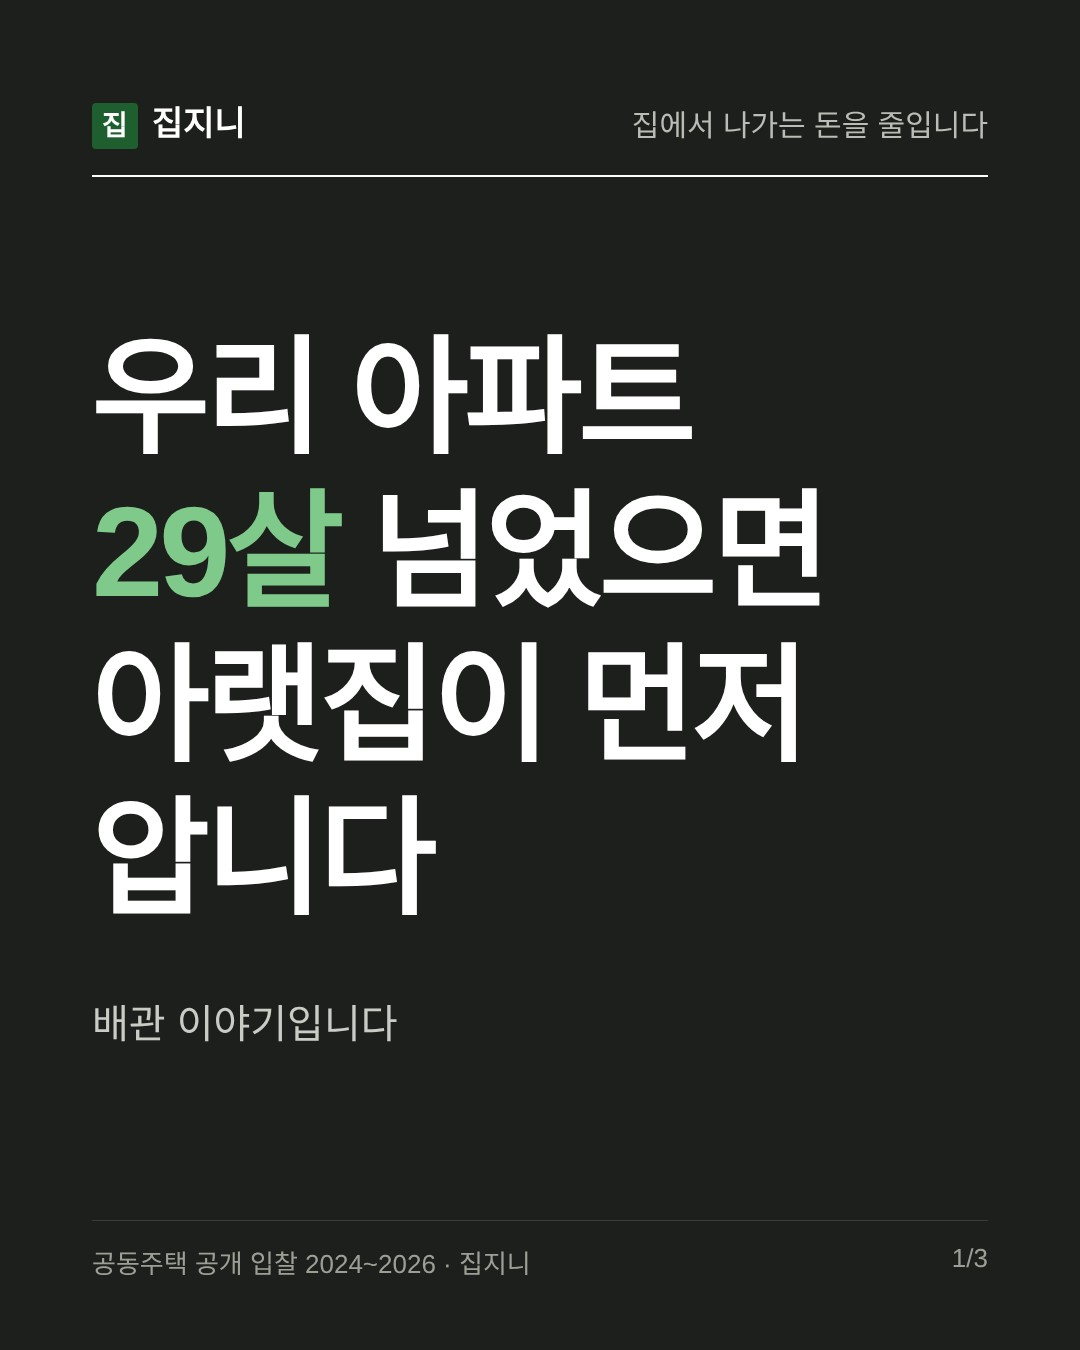
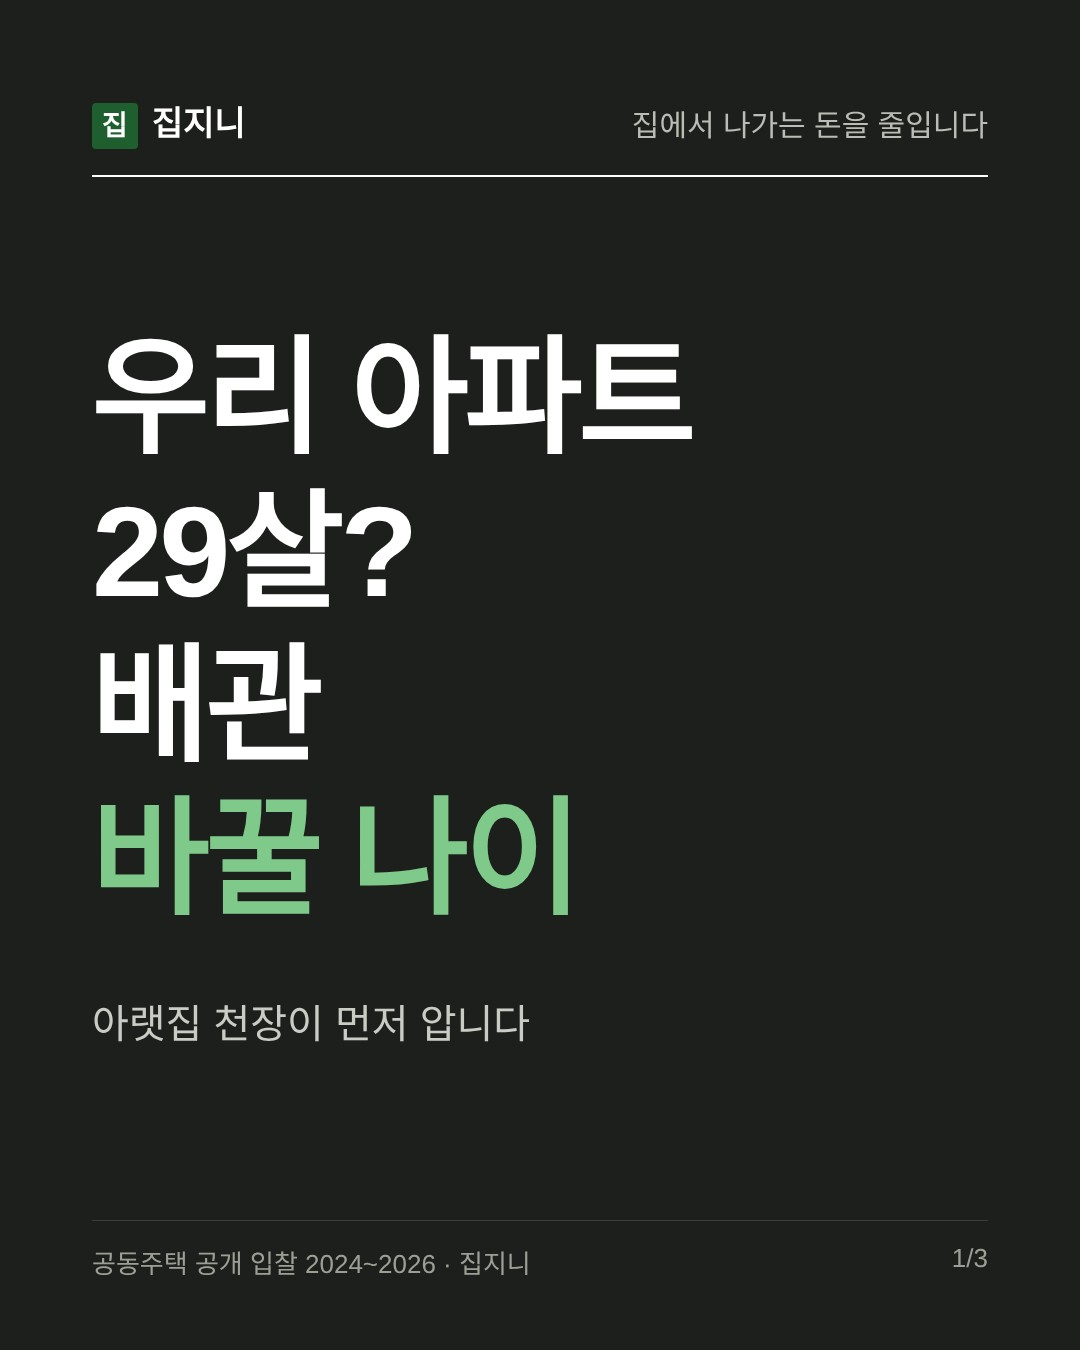
마케팅: 첫 주 갈고리 더 세게(마티즈 긔긔·헐 미친·난리자베스), 감탄·병맛 말투 허용
Claude-Session: https://claude.ai/code/session_01EWAutn6yu8RhtVwgyvFZah

Changed region(s): [[0.0917, 0.3422, 0.7639, 0.6844], [0.0917, 0.7467, 0.4889, 0.7778]]

diff --git a/tools/mk/check.py b/tools/mk/check.py
@@ -3,7 +3,7 @@
 규칙: 숫자는 mk/facts.json 에 있는 것만 · 공사비 글은 「부가세 10% 별도」 · 이모지·과장 금지어 없음 · 길이 · 카드 3~7장(첫 장 hook, 끝 장 cta) · 링크는 jipjini.com · 사진 파일 있음"""
 import json, re, sys, os, pathlib
 ROOT = pathlib.Path(__file__).resolve().parents[2]
-BAN = ["최고", "최저가 보장", "보장합니다", "무조건", "100%", "업계 1위", "완벽", "혁신", "역대급", "충격", "실화", "대박"]
+BAN = ["보장합니다", "최저가 보장", "무조건 싸", "100%", "업계 1위"]   # 2026-11-28 대표 「헐 미친 대박 등 … 더욱더 쌔고 자극적으로」 — 감탄·병맛은 허용, 사실을 장담하는 말만 막음
 EMOJI = re.compile("[\U0001F300-\U0001FAFF\u2600-\u27BF\u2B50\u2B55]")
 OK_N = {"1", "2", "3", "10", "30", "2026", "2027"}
 

diff --git a/.claude/agents/jj-strategist.md b/.claude/agents/jj-strategist.md
@@ -27,3 +27,7 @@ tools: Read, Grep, Glob
 - 첫 장 갈고리는 12자 안팎, 한 줄이나 두 줄. 설명 없이 한 방: 「1,189만 원, 그냥 버리셨네요」 「탑층이면 천장 보세요. 지금.」 「장충금, 어디 썼는지 아세요?」
 - 「당신」에게 말하고, 잃는 돈·놓치는 돈을 앞에(손해 회피). 질문은 짧게 찌른다.
 - 자극은 표현으로 내고 사실은 그대로: 숫자는 facts.json 값만, 「터진다·절대·무조건·보장」처럼 사실을 부풀리는 말은 쓰지 않는다.
+
+## 더욱더 세게 (2026-11-28 대표 예시 「인테리어비 30% 아껴 마티즈 샀다 긔긔」 「헐 미친 대박」 「이런 가격은 없었다」)
+- 인터넷 감탄·병맛 말투 허용: 헐, 미친, 대박, 실화?, 긔긔, ㄹㅇ, 홈쇼핑식(「이런 가격은 없었다」 「지금 아니면 1년 뒤」), 「○○ 아껴서 ○○ 샀다」 자랑 썰.
+- 막는 것은 하나: 사실을 장담하는 말(보장·무조건 싸다·100%·업계 1위)과 지어낸 숫자. 웃기되 숫자는 진짜.
